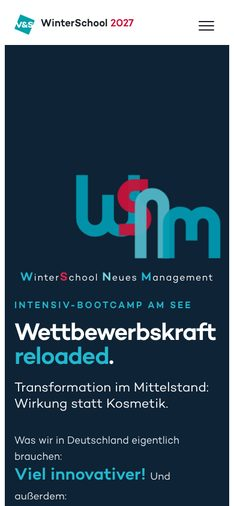
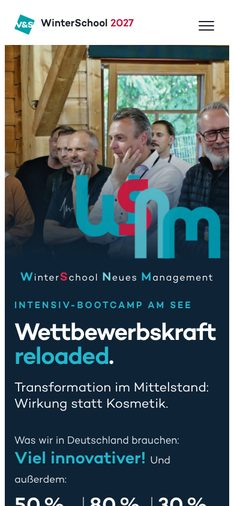
22: mobil Diashow oben wieder sichtbar (h-bg hatte Breite 0 im Flex-Hero); „25 Jahre“: Text bündig zur Zahl unten
Claude-Session: https://claude.ai/code/session_01A6FUCHn3aaXwuaYTU68Frh

diff --git a/22-wsnm-final.html b/22-wsnm-final.html
@@ -217,6 +217,7 @@
   .ws27[data-hero="a"] .h-sig .h-claim2{margin:10px 0 0;font-size:18px}
   /* nur mobil: Namenszeile direkt unter die Buchstaben (vor „Intensiv-Bootcamp“), Claim bleibt unten */
   .ws27[data-hero="a"] .hero{display:flex;flex-direction:column}
+  .ws27[data-hero="a"] .h-bg{width:100%;align-self:stretch}   /* sonst Breite 0 → Diashow unsichtbar */
   .ws27[data-hero="a"] .h-sig{display:contents}
   .ws27[data-hero="a"] .h-sig .h-cap{order:1;margin:14px 16px 0;text-shadow:none}
   .ws27[data-hero="a"] .h-in{order:2}
@@ -518,9 +519,9 @@
 .ws27 .diff .state{display:grid;grid-template-columns:1fr 1fr;gap:60px;align-items:start;margin-bottom:90px;position:relative}
 .ws27 .diff .state h2 span{display:block;color:var(--mut);font-size:.62em;font-weight:500;margin-bottom:8px;line-height:1.25}
 .ws27 .diff .state p b{color:var(--teal-d)}
-.ws27 .years{display:flex;align-items:baseline;gap:14px;margin-bottom:18px}
+.ws27 .years{display:flex;align-items:flex-end;gap:14px;margin-bottom:18px}
 .ws27 .years .num{font-size:clamp(70px,8vw,120px);font-weight:700;line-height:.9;color:var(--red);letter-spacing:-.04em}
-.ws27 .years small{font-size:15px;color:var(--mut);max-width:140px;line-height:1.3}
+.ws27 .years small{font-size:15px;color:var(--mut);max-width:140px;line-height:1.3;padding-bottom:.35em}
 .ws27 .points h3{font-size:clamp(26px,2.6vw,36px);margin-bottom:10px}
 .ws27 .points .lead{color:var(--mut);margin-bottom:36px}
 .ws27 .points ol{list-style:none;padding:0;display:grid;grid-template-columns:repeat(5,1fr);gap:18px}
